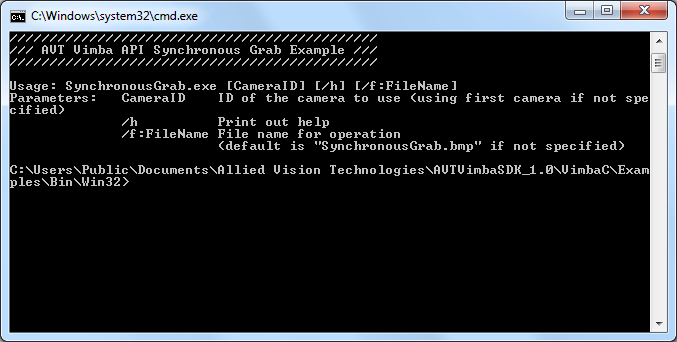
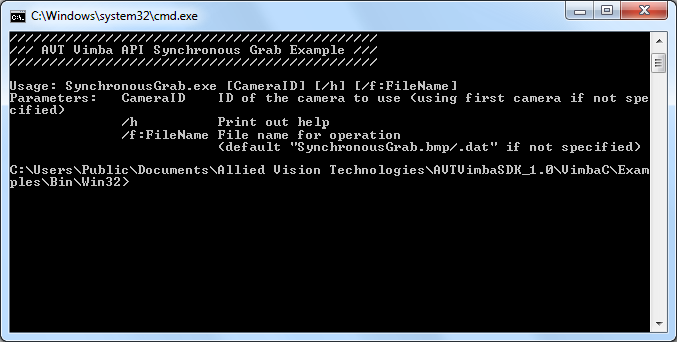
Example C SynchronousGrab format != bmp -> .dat

Changed region(s): [[0.1861, 0.3801, 0.9616, 0.4386]]

diff --git a/SynchronousGrab/Source/SynchronousGrab.cpp b/SynchronousGrab/Source/SynchronousGrab.cpp
@@ -222,12 +222,6 @@ HANDLE CreateImageFile ( const VmbFrame_t* pFrame, const char* pFileName )
     HDC             hDC;
     WCHAR           wFileName   [ MAX_PATH ];
 
-    MultiByteToWideChar ( CP_ACP, 0L, pFileName, lstrlenA(pFileName) + 1, wFileName, MAX_PATH );
-    
-    hDC = GetDC ( NULL );
-
-    HDC memDC = CreateCompatibleDC ( hDC );
-
     UINT nBitCount = 0;
     switch ( pFrame->pixelFormat)
     {
@@ -241,6 +235,42 @@ HANDLE CreateImageFile ( const VmbFrame_t* pFrame, const char* pFileName )
         default:
             break;
     }
+    
+    // Change file extension to .dat
+    size_t length = strlen(pFileName);
+    char* pFile = NULL;
+    pFile = new char [length];
+    strcpy(pFile, pFileName);
+    char *pExt = strrchr((char*)pFile, '.');
+    if ( !nBitCount )
+    {
+        if (pExt != NULL)
+        {
+            strcpy(pExt, ".dat");
+        }
+        else
+        {
+            strcat((char*)pFile, ".dat");
+        }
+    }
+    else
+    {
+        if (pExt != NULL)
+        {
+            strcpy(pExt, ".bmp");
+        }
+        else
+        {
+            strcat((char*)pFile, ".bmp");
+        }
+    }
+
+
+    MultiByteToWideChar ( CP_ACP, 0L, pFile, lstrlenA(pFile) + 1, wFileName, MAX_PATH );
+    
+    hDC = GetDC ( NULL );
+
+    HDC memDC = CreateCompatibleDC ( hDC );
 
     if ( nBitCount )
     {
@@ -342,7 +372,6 @@ HANDLE CreateRawFile ( LPTSTR pszFile, const VmbFrame_t* pFrame )
     HANDLE hf;                  // file handle 
     DWORD dwBytesWritten;        // bytes written
 
-    // Create the .BMP file. 
     hf = CreateFile (   pszFile, 
                         GENERIC_READ | GENERIC_WRITE, 
                         (DWORD) 0, 

diff --git a/SynchronousGrab/Source/program.cpp b/SynchronousGrab/Source/program.cpp
@@ -142,7 +142,7 @@ int main( int argc, char* argv[] )
         cout << "Parameters:   CameraID    ID of the camera to use (using first camera if not specified)" << endl;
         cout << "              /h          Print out help" << endl;
         cout << "              /f:FileName File name for operation" << endl;
-        cout << "                          (default is \"SynchronousGrab.bmp\" if not specified)" << endl;
+        cout << "                          (default \"SynchronousGrab.bmp/.dat\" if not specified)" << endl;
     }
     else
     {
